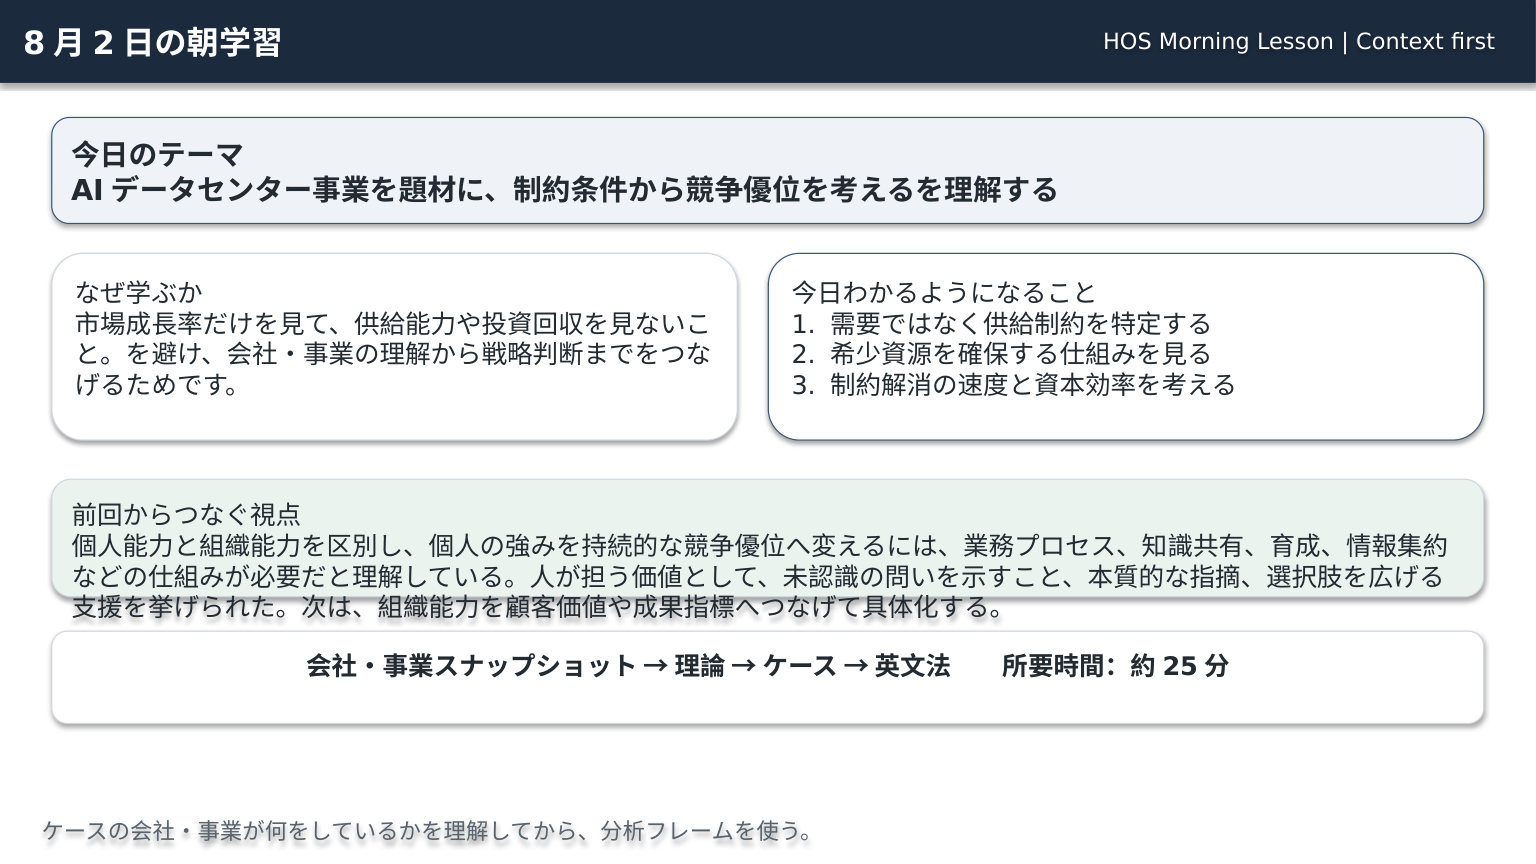
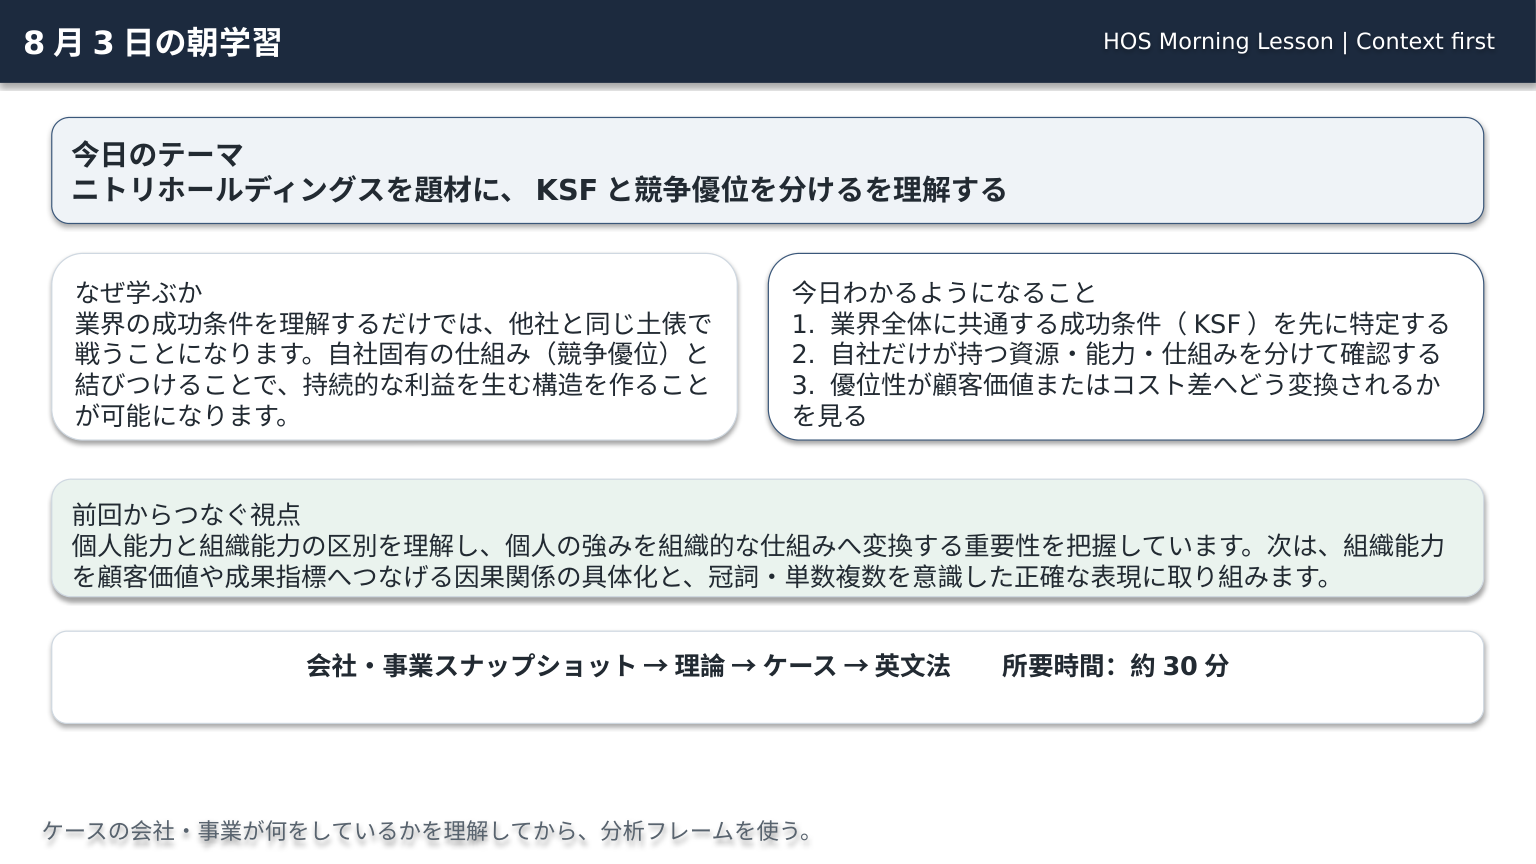
Generate growth lesson 2026-08-03

diff --git a/outputs/growth-menu/latest_notification.md b/outputs/growth-menu/latest_notification.md
@@ -1,8 +1,8 @@
-## 8月2日の朝学習PDF
+## 8月3日の朝学習PDF
 
-今日は『AIデータセンター事業 × 制約条件から競争優位を考える』を、会社・事業の全体像から学びます。
+今日は『ニトリホールディングス × KSFと競争優位を分ける』を、会社・事業の全体像から学びます。
 
-所要時間：約25分
+所要時間：約30分
 
 [今日のPDF授業を開く](https://raw.githubusercontent.com/purachinaevo7-cmyk/HOS/main/outputs/growth-menu/latest.pdf)
 
